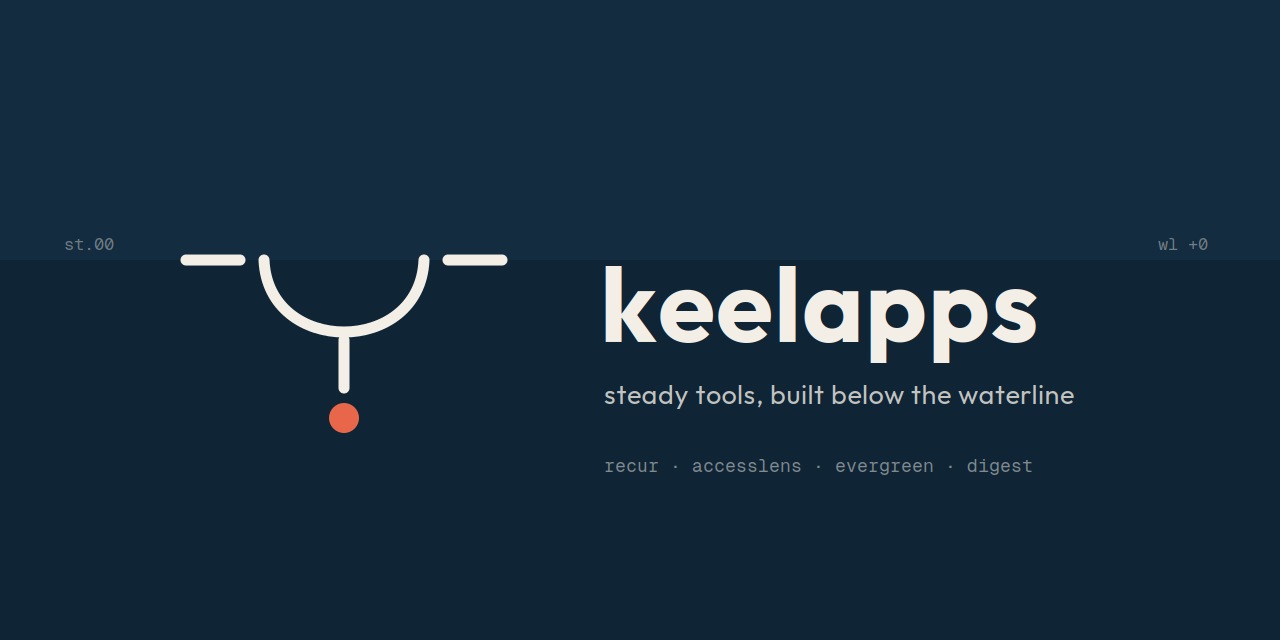
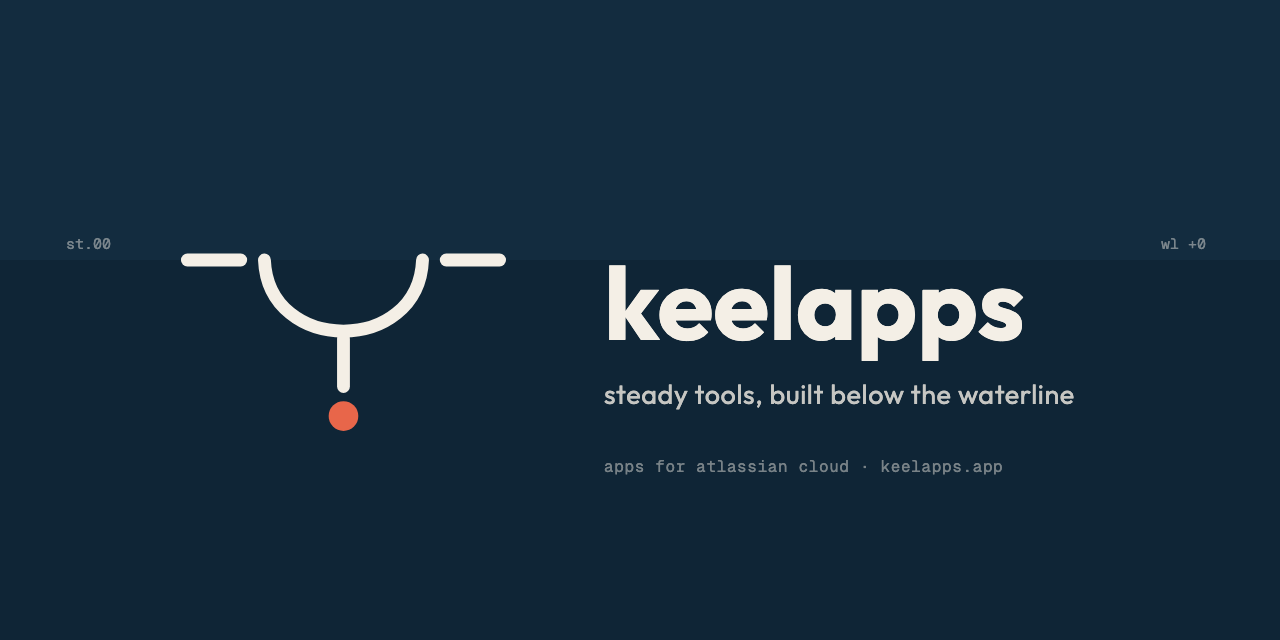
The default share card stops listing apps
assets/banner.png is the og:image for every page without its own — the
home page, each app's docs and privacy pages, the security page. It was
drawn by hand for the first commit and ended with 'recur · accesslens ·
evergreen · digest': four apps, when nine are live. A product list is
the one thing an image cannot keep current, so the card now ends with
'apps for atlassian cloud · keelapps.app' instead.

It is generated now, like the channel banner: tools/make-share-card
draws the masthead mark and the palette through headless Chrome, with
the original card's layout measured off it — same waterline, same mark
size and position, same type.

diff --git a/assets/brand/README.md b/assets/brand/README.md
@@ -9,10 +9,17 @@ uploaded to places that host their own copy.
 | --- | --- | --- |
 | `keelapps-youtube-2560x1440.png` | 2560×1440 | YouTube channel art — Customise channel → Branding → Banner image |
 
+One generated image *is* loaded by the site, and lives outside this folder because
+every page already points at its path: `assets/banner.png`, the default share card
+(og:image) for any page without its own. `tools/make-share-card` rebuilds it. It
+names no products — the hand-drawn original listed four apps and was out of date
+by the fifth.
+
 ## Rebuilding
 
 ```sh
 tools/make-youtube-banner
+tools/make-share-card
 ```
 
 Do not edit a PNG here. Change the script and re-run it. The mark's paths are
